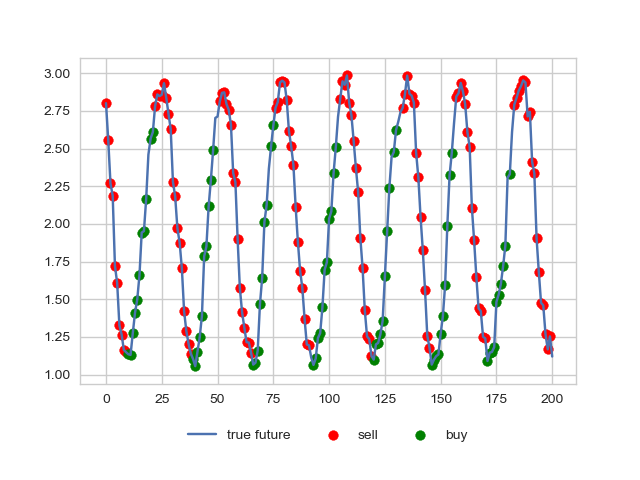
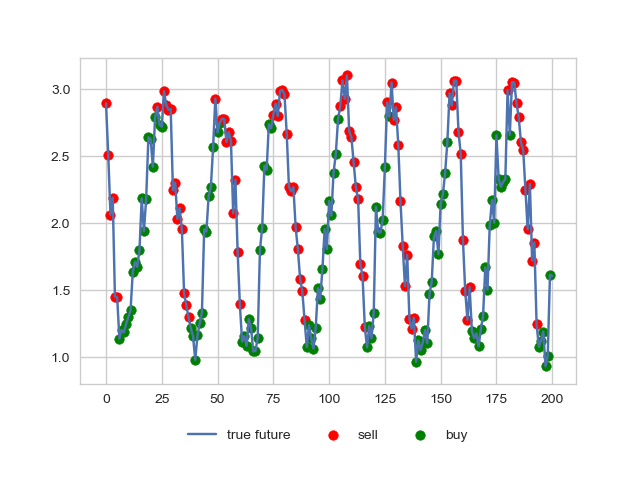
a change afterall, to max exp

diff --git a/thesis_code/version2/generating_events_from_known_model.py b/thesis_code/version2/generating_events_from_known_model.py
@@ -13,9 +13,10 @@ from strategies import *
 
 class strategies(Enum):
         expected_return = 1
+        max_expected_return = 2
 
 
-def compute_roi(timeseries: Sequence[float], events: Sequence[str], transaction_cost) -> float:
+def compute_roi(timeseries: Sequence[float], events: Sequence[str], transaction_cost, show=False) -> float:
     """
     Given a timeseries and a list of events, compute the return on investment
     Note: only buys once every tick, but sells everything within 1 tick
@@ -26,18 +27,29 @@ def compute_roi(timeseries: Sequence[float], events: Sequence[str], transaction_
     :return: total return made after excecuting the events on timeseries
 
     """
-    amount=0
-    buy = 0
+    roi = 0
+    current_price = timeseries[0]
+    returns = [(p/current_price)-1 for p in timeseries]
+    bought = 0 # keep track of how much you have bought 
+    wallet = 0 # keep track of how many "coins" you have bought
+    plt.figure('events')
+    plt.plot(timeseries)
     for i in range(len(events)):
         event = events[i]
         if event=='buy':
-            amount -= (timeseries[i]*(1+transaction_cost))
-            buy += 1
-        if event=='sell' and buy>0:
-            amount += buy*(timeseries[i]*(1-transaction_cost))
-            buy = 0
-    return amount
+            bought += ((returns[i]+1)*(1+transaction_cost))
+            wallet += 1
+            plt.scatter(i, timeseries[i], c='g')
+        if event=='sell' and wallet > 0:
+            plt.scatter(i, timeseries[i], c='r')
+            roi +=  ((wallet*((returns[i]+1)*(1-transaction_cost))) - bought)
+            bought = 0 # empty the wallet
+            wallet = 0
 
+    sharpe_ratio = roi / np.std(returns)
+    if show:
+        plt.show()
+    return roi, sharpe_ratio
 
 class ProbModel:
     """
@@ -126,11 +138,11 @@ def evaluate_model(prob_model: ProbModel, event_function: Callable, strategy: st
 
     true_events = []
     for t in range(n_run_steps):
-        event = event_function([context[t:t+n_eval_steps]], strategy, transaction_cost, reduce_risk=0.0)
+        event = event_function([context[t:t+n_eval_steps+1]], strategy, transaction_cost, reduce_risk=0.0)
         true_events.append(event)
 
-    roi = compute_roi(context, events, transaction_cost)
-    target_roi = compute_roi(context, true_events, transaction_cost)
+    roi, sharpe_ratio = compute_roi(context, events, transaction_cost)
+    target_roi, target_sharpe_ratio = compute_roi(context, true_events, transaction_cost)
 
     if make_fig:
         plt.plot(context, label='true future')
@@ -148,12 +160,18 @@ def evaluate_model(prob_model: ProbModel, event_function: Callable, strategy: st
                     legend_sell = False
                 else:
                     plt.scatter(t, context[t], c='r')
-        plt.legend(loc=9, bbox_to_anchor=(0.5, -0.1), ncol=3)
+            elif events[t]=='hold':
+                if legend_sell:
+                    plt.scatter(t, context[t], c='y', label='hold')
+                    legend_sell = False
+                else:
+                    plt.scatter(t, context[t], c='r')
+        plt.legend(loc=9, bbox_to_anchor=(0.5, -0.1), ncol=4)
         plt.subplots_adjust(bottom=0.2)
         plt.savefig('example'+str(prob_model.seed)+'.png')
         plt.show()
 
-    return roi, target_roi
+    return roi, sharpe_ratio, target_roi, target_sharpe_ratio
 
 
 
@@ -170,36 +188,59 @@ def run(N = 10, show=True):
     reduce_risk: between 0 and 1, 0 is no risk reduction, 1 is
     """
 
-    x_noise = 0.1
-    v_noise = 0.08
-    m_noise = 0.05
-    reduce_risk = 0.0
-    transaction_cost = 0.02
+    x_noise = 0.5
+    v_noise = 0.25
+    m_noise = 0.25
+    reduce_risk = 0.5
+    transaction_cost = 0.00
     output_seq_len = 5
-    strategy = 1
+    strategy = 2
+    number_of_ticks = 200
+    nuber_of_simulations = 200
 
     ROI = []
+    SR = []
     TARGET_ROI = []
+    TSR = []
 
     for i in range(N):
         print('Running experiment', i, '...')
-        roi, target_roi = evaluate_model(
-            prob_model=ProbModel(i, measurement_noise=m_noise, x_noise = x_noise , v_noise = v_noise),
-            event_function=make_buy_sell_events,
-            strategy = str(strategies(strategy).name),
-            n_run_steps = 200, 
-            n_simulations = 100,
-            n_eval_steps = output_seq_len, 
-            transaction_cost = transaction_cost,
-            reduce_risk = reduce_risk,
-            make_fig = show
-            )
+        roi, sharpe_ratio, target_roi, target_sharpe_ratio = \
+            evaluate_model(
+                prob_model=ProbModel(i, measurement_noise=m_noise, x_noise = x_noise , v_noise = v_noise),
+                event_function=make_buy_sell_events,
+                strategy = str(strategies(strategy).name),
+                n_run_steps = number_of_ticks, 
+                n_simulations = nuber_of_simulations,
+                n_eval_steps = output_seq_len, 
+                transaction_cost = transaction_cost,
+                reduce_risk = reduce_risk,
+                make_fig = show
+                )
 
         ROI.append(roi)
+        SR.append(sharpe_ratio)
         TARGET_ROI.append(target_roi)
-    print('mean roi: ', np.mean(ROI))
-    print('mean target roi: ', np.mean(TARGET_ROI), '\n')
-
+        TSR.append(target_sharpe_ratio)
+    print('mean roi: ', np.mean(ROI), 'mean sharpe ratio: ', np.mean(SR))
+    print('mean target roi: ', np.mean(TARGET_ROI), 'mean target sharpe ratio: ', np.mean(TSR), '\n')
+    f =  open(str(strategy)+str(output_seq_len)+str(transaction_cost)+str(reduce_risk)+str(m_noise)\
+        +str(x_noise)+str(v_noise)+'.txt', 'w')
+    f.write('strategy: '+ str(strategy)+'\n')
+    f.write('output_seq_len: '+str(output_seq_len)+'\n')
+    f.write('transaction_cost: '+str(transaction_cost)+'\n')
+    f.write('reduce_risk: '+str(reduce_risk)+'\n')
+    f.write('m_noise: '+str(m_noise)+'\n')
+    f.write('x_noise: '+str(x_noise)+'\n')
+    f.write('v_noise: '+str(v_noise)+'\n')
+    f.write('runs: '+ str(N)+'\n')
+    f.write('nuber_of_simulations: '+str(nuber_of_simulations)+'\n')
+    f.write('number_of_ticks: '+str(number_of_ticks)+'\n')
+    f.write('roi: '+ str(ROI)+'\n')
+    f.write('target roi: '+ str(target_roi)+'\n')
+    f.write('sharpe_ratio: '+ str(sharpe_ratio)+'\n')
+    f.write('target_sharpe_ratio: '+ str(target_sharpe_ratio)+'\n')
+    f.close()
 if __name__ == '__main__':
 
     run(N=10, show=False)

diff --git a/thesis_code/version2/strategies.py b/thesis_code/version2/strategies.py
@@ -19,6 +19,7 @@ def expected_return(futures, reduce_risk=0.9, order_method = 'market_order', tra
     current_price = futures[0][0]
 
     expected_returns = [np.mean([(f/current_price)-1 for f in future]) for future in futures]
+
     if reduce_risk>0:
         expected_return = expected_shortfall(expected_returns, alpha=reduce_risk*10.)
     else:
@@ -27,6 +28,34 @@ def expected_return(futures, reduce_risk=0.9, order_method = 'market_order', tra
         return 'sell'
     # both buying and selling costs money, so double the transaction cost
     elif expected_return > (2*transaction_cost):
+        return 'buy'
+    else:
+        return 'hold'
+
+def max_expected_return(futures, reduce_risk=0.9, order_method = 'market_order', transaction_cost=0.0):
+
+    """
+    This strategy computes for each simulation the expected return
+    The expected expected return is used for decision making
+
+    If you want to reduce risk, the expected shortfall is used instead of the 
+    expected expected return, which is the expectation of the 5 percent worst 
+    expected returns 
+    """
+    T = len(futures[0])
+    reduce_risk = np.min([1., reduce_risk]) # should be between 0 and 1
+    current_price = futures[0][0]
+    time_slices = [[future[t] for future in futures] for t in range(1,T)]
+    # risk can be reduced by asuming that at each time step, the futures below the value at risk
+    # for that time step, will happen
+    if reduce_risk>0:
+        time_slices = [samples_at_risk(time_slice, alpha=(1.-reduce_risk)*100.) for time_slice in time_slices]
+    max_exp_ret = np.max([np.mean(np.divide(time_slice, current_price) - 1) for time_slice in time_slices])
+    
+    if max_exp_ret < 0:
+        return 'sell'
+    # both buying and selling costs money, so double the transaction cost
+    elif max_exp_ret > (2*transaction_cost):
         return 'buy'
     else:
         return 'hold'

diff --git a/thesis_code/version2/utils.py b/thesis_code/version2/utils.py
@@ -5,7 +5,6 @@ import os
 
 
 def value_at_risk(samples, alpha=5):
-    N = len(samples)
     samples.sort()
     var = np.percentile(samples, alpha)
     return var
@@ -17,6 +16,14 @@ def expected_shortfall(samples, alpha=5):
     var = value_at_risk(samples, alpha=alpha)
     risky_samples = [s for s in samples if s < var]
     return np.mean(risky_samples)
+
+def samples_at_risk(samples, alpha=5):
+    '''
+    expected left tail risk
+    '''
+    var = value_at_risk(samples, alpha=alpha)
+    risky_samples = [s for s in samples if s < var]
+    return risky_samples
 
 
 def make_dirs(name):
